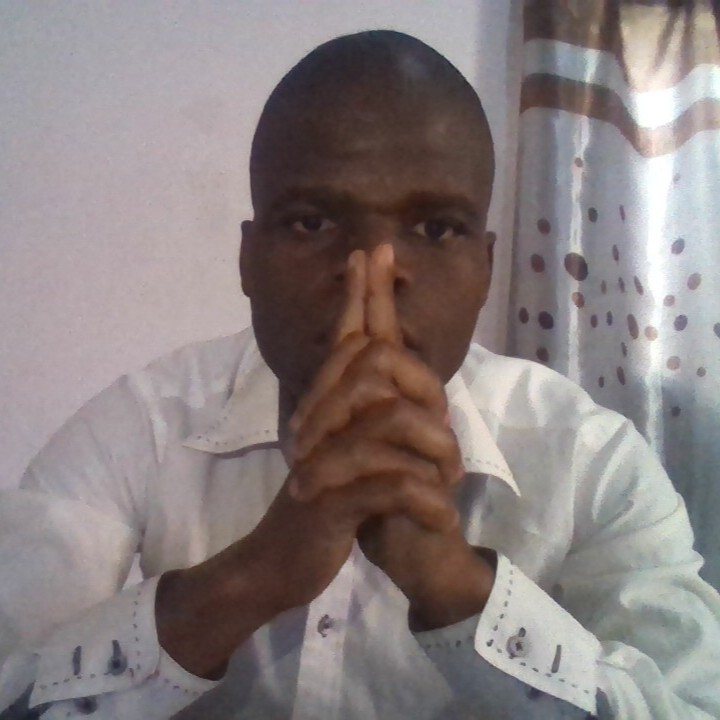
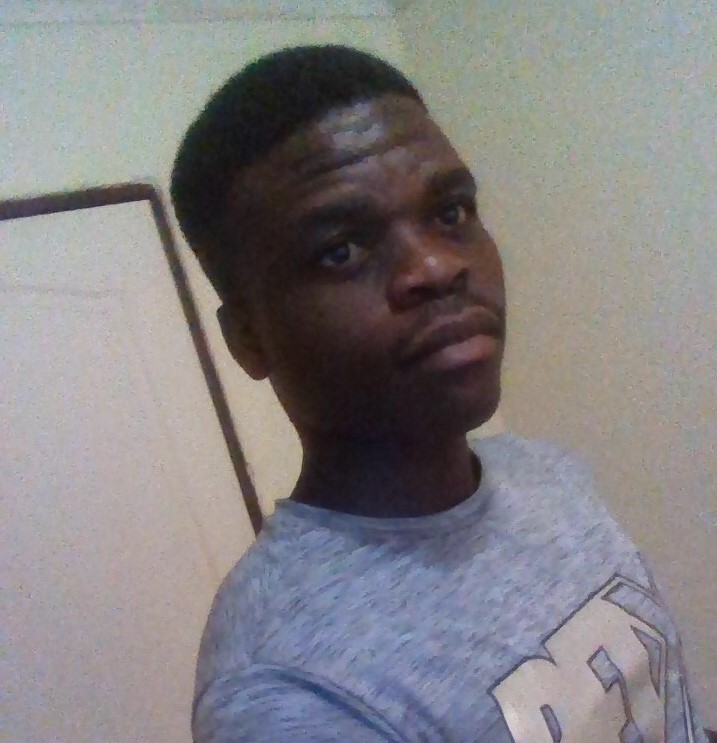
bg changed

diff --git a/index.html b/index.html
@@ -48,23 +48,31 @@
         <h3 class="">What I Do</h3>
 
         <div class="m-3">
-          <h4 class="">Solution Achitect</h4>
-          <p class="">Provide Solution that solve business and society problems</p>
+          <div>
+            <h4 class="">Solution Achitect</h4>
+            <p class="">Provide Solution that solve business and society problems</p>
+          </div>
         </div>
 
         <div class="m-3">
-          <h4 class="">Project Planning</h4>
-          <p class="">Research project and deliver document presantations for requirement elicitation</p>
+          <div>
+            <h4 class="">Project Planning</h4>
+            <p class="">Research project and deliver document presantations for requirement elicitation</p>
+          </div>
         </div>
 
         <div class="m-3">
-          <h4 class="">Software Development</h4>
-          <p class="">I build software solutions that solve real-world problems.</p>
+          <div>
+            <h4 class="">Software Development</h4>
+            <p class="">I build software solutions that solve real-world problems.</p>
+          </div>
         </div>
 
         <div class="m-3">
-          <h4 class="">business Development</h4>
-          <p class="">I help entrepreneur and businesses to set their self to success.</p>
+          <div>
+            <h4 class="">business Development</h4>
+            <p class="">I help entrepreneur and businesses to set their self to success.</p>
+          </div>
         </div>
       </div>
     </div>

diff --git a/index.css b/index.css
@@ -1,6 +1,6 @@
 
 .header {
-    background-image: linear-gradient(45deg, hwb(246 0% 0%), hsl(0, 98%, 49%)), url("img/sky.gif");
+    background-image: linear-gradient(45deg, hsl(0, 0%, 2%), hwb(239 1% 3%));
     background-size: cover;
     background-position: center;
     background-attachment: fixed;
@@ -12,12 +12,22 @@
     width: 20%;
 }
 
+.skills {
+    background-image: linear-gradient(45deg, hwb(324 4% 77%), hsl(0, 0%, 5%));
+    color: #fff;
+}
+
+.projects {
+    background-image: linear-gradient(45deg, hwb(0 5% 95%), hsl(246, 100%, 50%));
+    color: #7fa957;
+}
+
 .technologies span img{
     width: 80px;
 }
 
 .footer {
-    background-image: linear-gradient(45deg, hwb(246 0% 0%), hsl(0, 98%, 49%)), url("img/beach.gif");
+    background-image: linear-gradient(45deg, hwb(246 0% 0%), hsl(0, 0%, 4%)), url("img/beach.gif");
     background-size: cover;
     background-position: bottom;
     background-attachment: fixed;